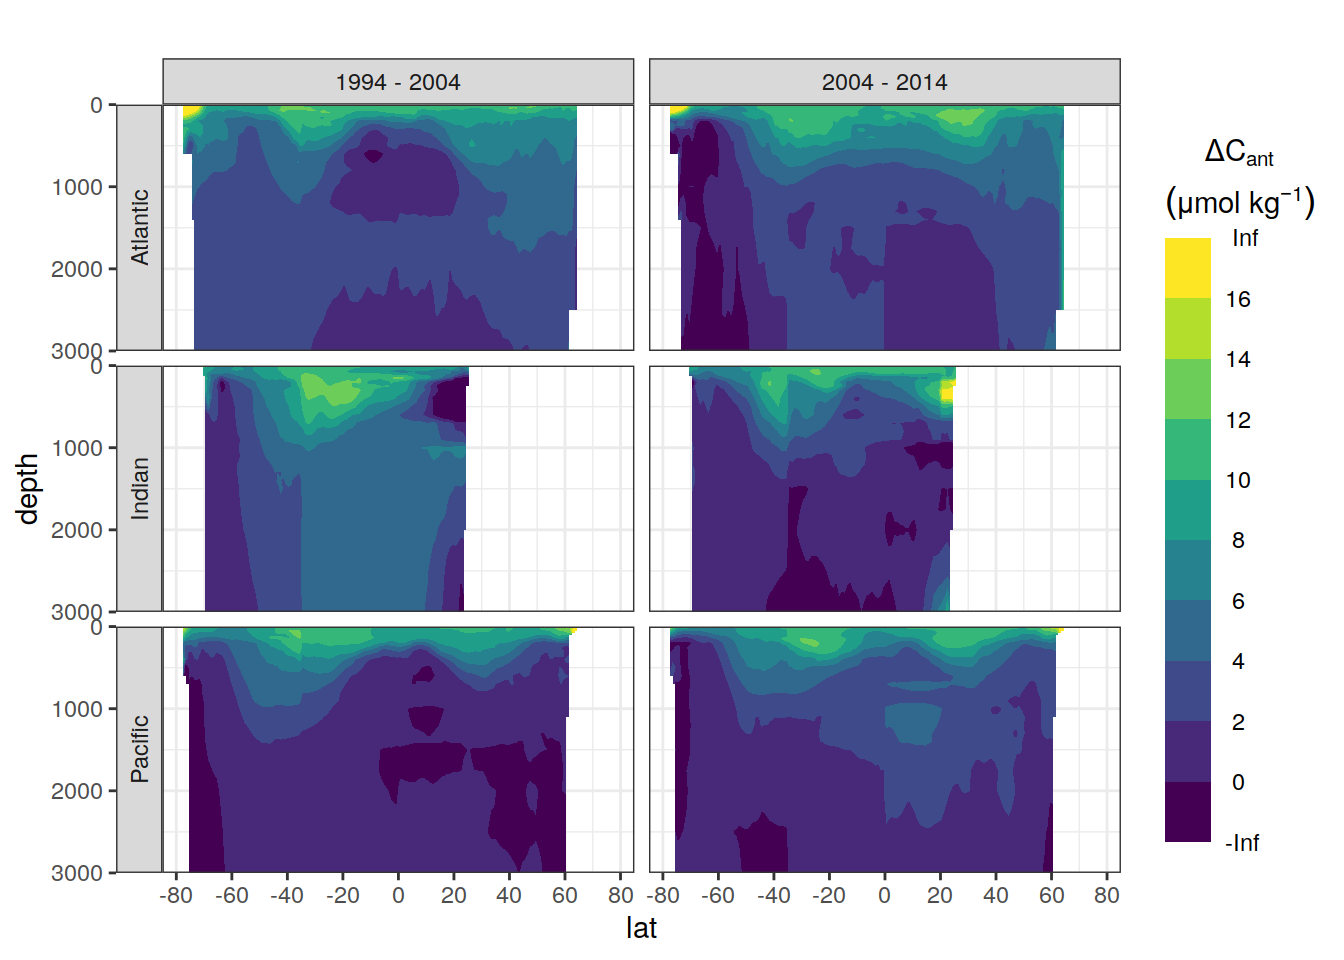
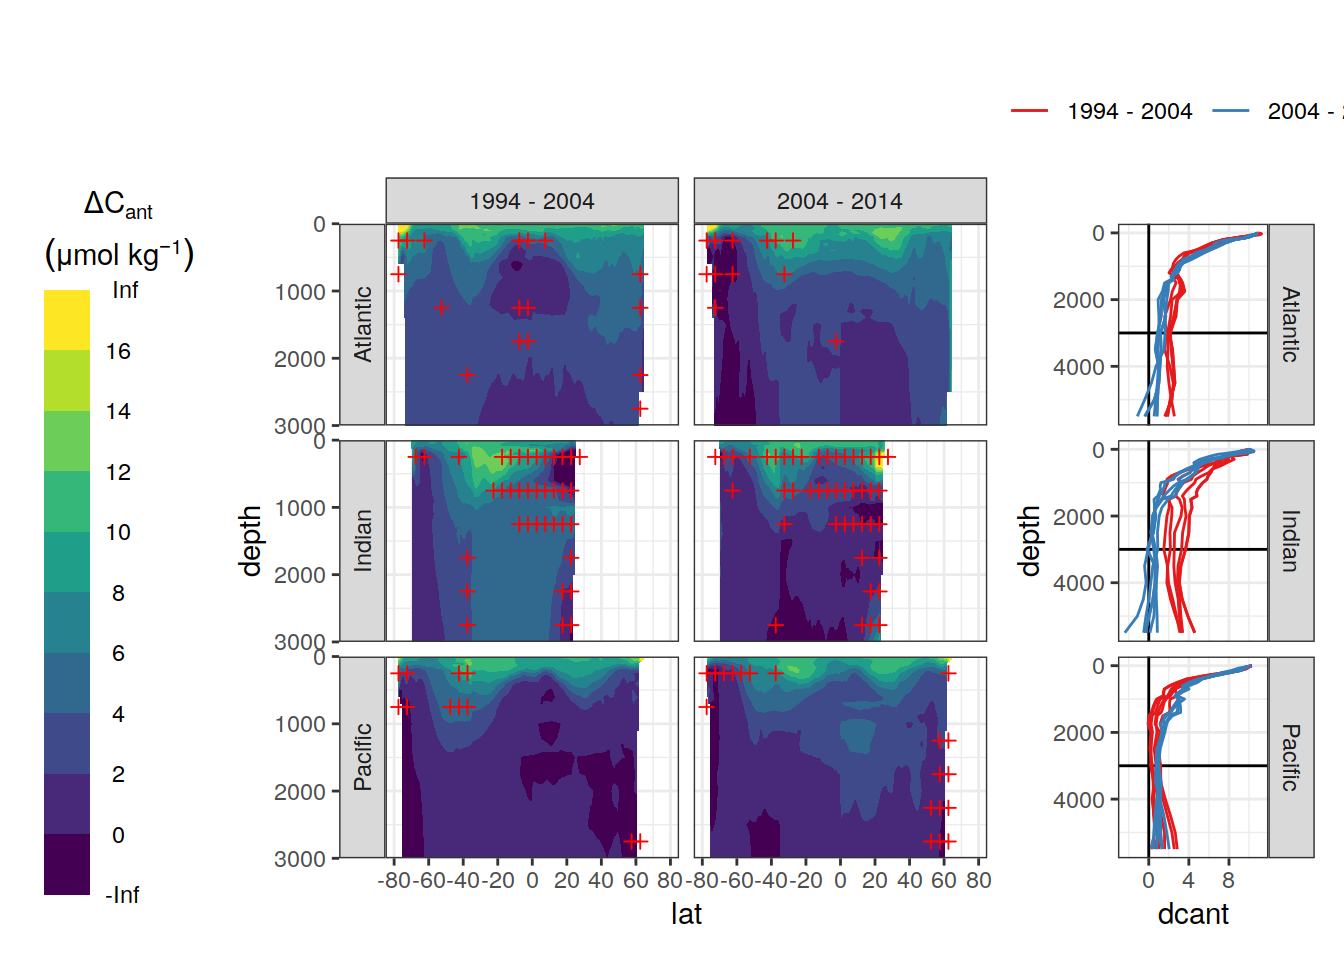
Build site.

diff --git a/docs/classic_zonal_sections.html b/docs/classic_zonal_sections.html
@@ -667,16 +667,16 @@ This reproducible <a href="http://rmarkdown.rstudio.com">R Markdown</a> analysis
 <div class="panel panel-default">
 <div class="panel-heading">
 <p class="panel-title">
-<a data-toggle="collapse" data-parent="#workflowr-checks" href="#strongRepositoryversionstrongahrefhttpsgithubcomjensdanielmuelleremlrobsanalysistree09c80f95b34905f1886801c8548be697a629f41dtargetblank09c80f9a"> <span class="glyphicon glyphicon-ok text-success" aria-hidden="true"></span> <strong>Repository version:</strong> <a href="https://github.com/jens-daniel-mueller/emlr_obs_analysis/tree/09c80f95b34905f1886801c8548be697a629f41d" target="_blank">09c80f9</a> </a>
+<a data-toggle="collapse" data-parent="#workflowr-checks" href="#strongRepositoryversionstrongahrefhttpsgithubcomjensdanielmuelleremlrobsanalysistreec4ac3573300c6b00659ff415ce2a0e345d736170targetblankc4ac357a"> <span class="glyphicon glyphicon-ok text-success" aria-hidden="true"></span> <strong>Repository version:</strong> <a href="https://github.com/jens-daniel-mueller/emlr_obs_analysis/tree/c4ac3573300c6b00659ff415ce2a0e345d736170" target="_blank">c4ac357</a> </a>
 </p>
 </div>
[2 lines of base64/hex data omitted]
 <div class="panel-body">
 <p>
 Great! You are using Git for version control. Tracking code development and connecting the code version to the results is critical for reproducibility.
 </p>
 <p>
-The results in this page were generated with repository version <a href="https://github.com/jens-daniel-mueller/emlr_obs_analysis/tree/09c80f95b34905f1886801c8548be697a629f41d" target="_blank">09c80f9</a>. See the <em>Past versions</em> tab to see a history of the changes made to the R Markdown and HTML files.
+The results in this page were generated with repository version <a href="https://github.com/jens-daniel-mueller/emlr_obs_analysis/tree/c4ac3573300c6b00659ff415ce2a0e345d736170" target="_blank">c4ac357</a>. See the <em>Past versions</em> tab to see a history of the changes made to the R Markdown and HTML files.
 </p>
 <p>
 Note that you need to be careful to ensure that all relevant files for the analysis have been committed to Git prior to generating the results (you can use <code>wflow_publish</code> or <code>wflow_git_commit</code>). workflowr only checks the R Markdown file, but you know if there are other scripts or data files that it depends on. Below is the status of the Git repository when the results were generated:
@@ -729,6 +729,40 @@ Message
 </tr>
 </thead>
 <tbody>
+<tr>
+<td>
+Rmd
+</td>
+<td>
+<a href="https://github.com/jens-daniel-mueller/emlr_obs_analysis/blob/c4ac3573300c6b00659ff415ce2a0e345d736170/analysis/classic_zonal_sections.Rmd" target="_blank">c4ac357</a>
+</td>
+<td>
+jens-daniel-mueller
+</td>
+<td>
+2021-10-26
+</td>
+<td>
+revised composite plots
+</td>
+</tr>
+<tr>
+<td>
+html
+</td>
+<td>
+<a href="https://rawcdn.githack.com/jens-daniel-mueller/emlr_obs_analysis/8b4e3343c79812f1b6ea6bc7c5629d64de45acb8/docs/classic_zonal_sections.html" target="_blank">8b4e334</a>
+</td>
+<td>
+jens-daniel-mueller
+</td>
+<td>
+2021-10-26
+</td>
+<td>
+Build site.
+</td>
+</tr>
 <tr>
 <td>
 Rmd
@@ -3029,12 +3063,6 @@ jens-daniel-mueller
              )) +
       geom_hline(yintercept = params_global$inventory_depth_standard) +
       geom_vline(xintercept = 0) +
-      # geom_ribbon(
-      #   aes(xmin = dcant - dcant_sd,
-      #       xmax = dcant + dcant_sd),
-      #   alpha = 0.2,
-      #   col = &quot;transparent&quot;
-      # ) +
       geom_path() +
       scale_y_reverse() +
       labs(title = paste(&quot;period&quot;, unique(.x$period))) +
@@ -3241,12 +3269,6 @@ jens-daniel-mueller
     ) +
       geom_hline(yintercept = params_global$inventory_depth_standard) +
       geom_vline(xintercept = 0) +
-      # geom_ribbon(
-      #   aes(xmin = dcant - dcant_sd,
-      #       xmax = dcant + dcant_sd),
-      #   alpha = 0.2,
-      #   col = &quot;transparent&quot;
-      # ) +
       geom_path() +
       scale_y_reverse() +
       labs(title = paste(&quot;data_source&quot;, unique(.x$data_source))) +
@@ -4906,7 +4928,7 @@ jens-daniel-mueller
 <div id="sd-as-uncertainty" class="section level2" number="3.4">
 <h2 number="3.4"><span class="header-section-number">3.4</span> SD as uncertainty</h2>
 <pre class="r"><code>uncertainty_grid &lt;- dcant_zonal_ensemble %&gt;%
-  filter(dcant_sd &gt; 2) %&gt;% 
+  filter(dcant_sd &gt; 1.5) %&gt;% 
   distinct(depth, lat, data_source, period, basin_AIP)
 
 uncertainty_grid &lt;- uncertainty_grid %&gt;%
@@ -4926,6 +4948,43 @@ uncertainty_grid %&gt;%
   facet_grid(basin_AIP ~ period) +
   scale_y_reverse()</code></pre>
 <p><img src="figure/classic_zonal_sections.Rmd/ensemble_sd_uncertainty-1.png" width="672" style="display: block; margin: auto;" /></p>
+<p>
+<button type="button" class="btn btn-default btn-xs btn-workflowr btn-workflowr-fig" data-toggle="collapse" data-target="#fig-ensemble_sd_uncertainty-1">
+Past versions of ensemble_sd_uncertainty-1.png
+</button>
+</p>
+<div id="fig-ensemble_sd_uncertainty-1" class="collapse">
+<div class="table-responsive">
+<table class="table table-condensed table-hover">
+<thead>
+<tr>
+<th>
+Version
+</th>
+<th>
+Author
+</th>
+<th>
+Date
+</th>
+</tr>
+</thead>
+<tbody>
+<tr>
+<td>
+<a href="https://github.com/jens-daniel-mueller/emlr_obs_analysis/blob/8b4e3343c79812f1b6ea6bc7c5629d64de45acb8/docs/figure/classic_zonal_sections.Rmd/ensemble_sd_uncertainty-1.png" target="_blank">8b4e334</a>
+</td>
+<td>
+jens-daniel-mueller
+</td>
+<td>
+2021-10-26
+</td>
+</tr>
+</tbody>
+</table>
+</div>
+</div>
 </div>
 <div id="sd-vs-bias" class="section level2" number="3.5">
 <h2 number="3.5"><span class="header-section-number">3.5</span> SD vs bias</h2>
@@ -5361,17 +5420,87 @@ jens-daniel-mueller
 </div>
 <div id="composed-figure" class="section level2" number="3.6">
 <h2 number="3.6"><span class="header-section-number">3.6</span> Composed figure</h2>
-<pre class="r"><code>p_zonal_ensemble &lt;- dcant_zonal_ensemble %&gt;%
+<pre class="r"><code>uncertainty_grid &lt;- uncertainty_grid %&gt;%
+  filter(data_source == &quot;obs&quot;,
+         period != &quot;1994 - 2014&quot;)
+
+p_zonal_ensemble &lt;- dcant_zonal_ensemble %&gt;%
   filter(data_source == &quot;obs&quot;,
          period != &quot;1994 - 2014&quot;) %&gt;%
   p_section_zonal_continous_depth(var = &quot;dcant_ensemble_mean&quot;,
                                   plot_slabs = &quot;n&quot;,
                                   title_text = NULL) +
+  geom_point(data = uncertainty_grid,
+             aes(lat_grid, depth_grid),
+             shape = 3,
+             col = &quot;red&quot;) +
   facet_grid(basin_AIP ~ period,
-             switch = &quot;y&quot;)
+             switch = &quot;y&quot;) +
+  theme(legend.position = &quot;left&quot;)
 
-p_zonal_ensemble</code></pre>
+p_profiles &lt;-
+  dcant_profile_all %&gt;%
+  arrange(depth) %&gt;%
+  filter(period != &quot;1994 - 2014&quot;,
+         data_source == &quot;obs&quot;) %&gt;%
+  ggplot(aes(
+           dcant,
+           depth,
+           col = period,
+           group = interaction(MLR_basins, period)
+         )) +
+  geom_hline(yintercept = params_global$inventory_depth_standard) +
+  geom_vline(xintercept = 0) +
+  geom_path() +
+  scale_y_reverse() +
+  scale_color_brewer(palette = &quot;Set1&quot;) +
+  facet_grid(basin_AIP ~.) +
+  theme(legend.position = &quot;top&quot;,
+        legend.title = element_blank())
+
+p_zonal_ensemble + p_profiles +
+  plot_layout(widths = c(4,1))</code></pre>
 <p><img src="figure/classic_zonal_sections.Rmd/composed_figure-1.png" width="672" style="display: block; margin: auto;" /></p>
+<p>
+<button type="button" class="btn btn-default btn-xs btn-workflowr btn-workflowr-fig" data-toggle="collapse" data-target="#fig-composed_figure-1">
+Past versions of composed_figure-1.png
+</button>
+</p>
+<div id="fig-composed_figure-1" class="collapse">
+<div class="table-responsive">
+<table class="table table-condensed table-hover">
+<thead>
+<tr>
+<th>
+Version
+</th>
+<th>
+Author
+</th>
+<th>
+Date
+</th>
+</tr>
+</thead>
+<tbody>
+<tr>
+<td>
+<a href="https://github.com/jens-daniel-mueller/emlr_obs_analysis/blob/8b4e3343c79812f1b6ea6bc7c5629d64de45acb8/docs/figure/classic_zonal_sections.Rmd/composed_figure-1.png" target="_blank">8b4e334</a>
+</td>
+<td>
+jens-daniel-mueller
+</td>
+<td>
+2021-10-26
+</td>
+</tr>
+</tbody>
+</table>
+</div>
+</div>
+<pre class="r"><code>ggsave(&quot;output/publication/Fig_zonal_mean.png&quot;,
+       width=11.25,
+       height=9.27)</code></pre>
 </div>
 </div>
 <div id="cases-vs-ensemble" class="section level1" number="4">
